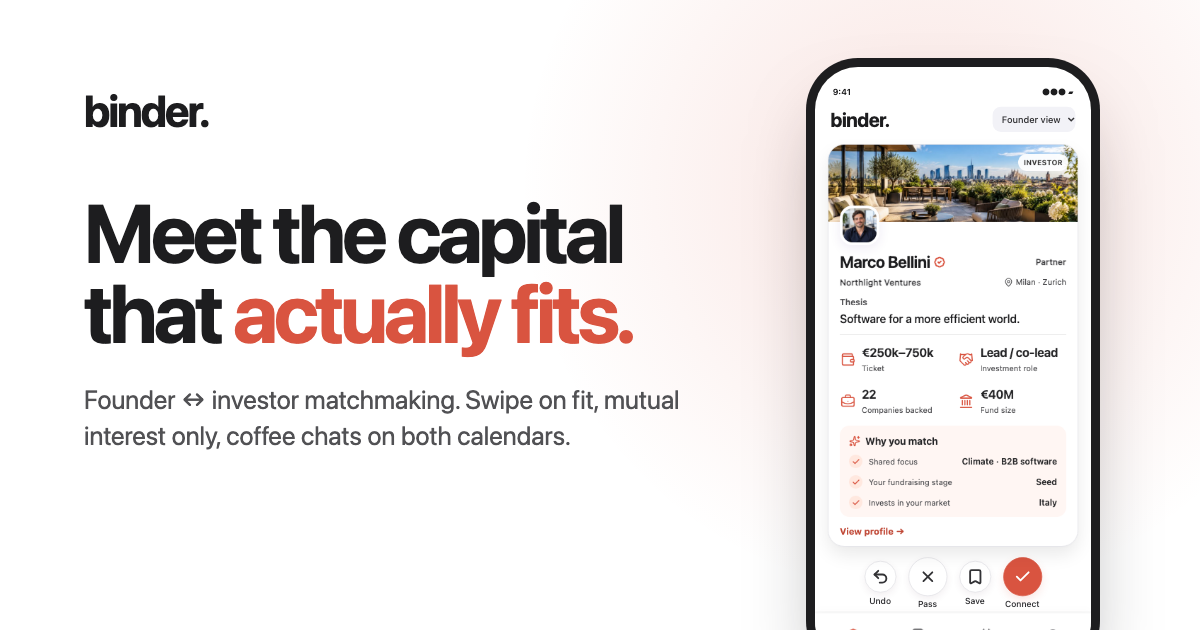
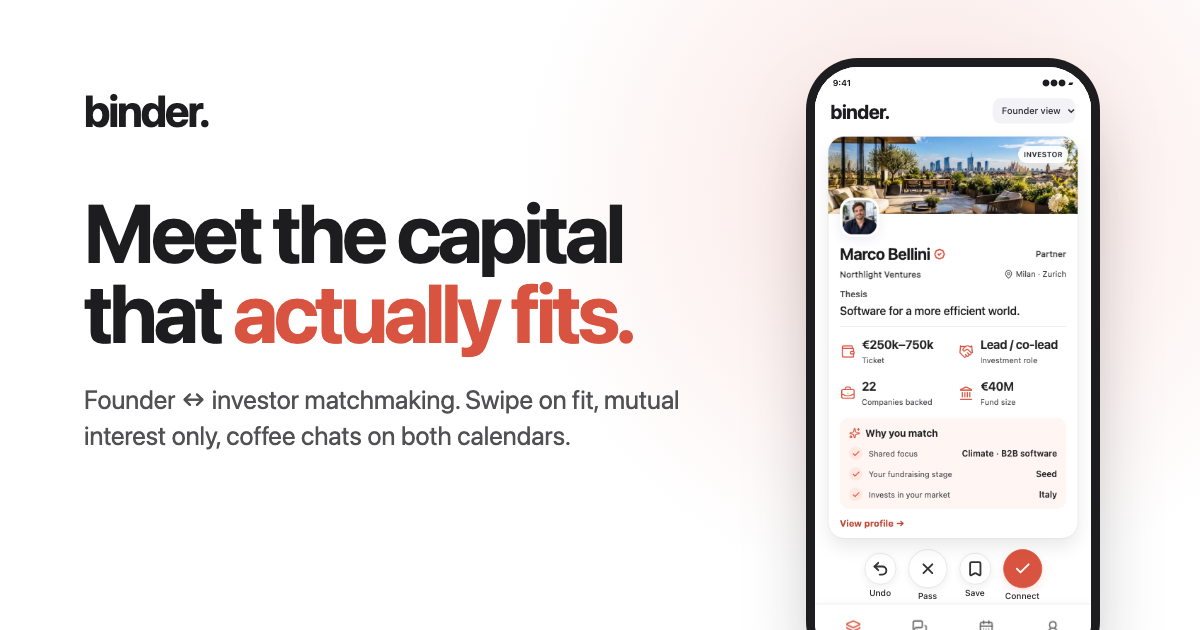
Fix the demo on Vercel: absolute /demo/ paths; absolute og:image
On Vercel, vercel.json's cleanUrls + trailingSlash:false redirect /demo/ to
/demo and serve demo/index.html there. The demo loaded embed.css, boot.js
and icons.js by relative path, which at /demo resolve to /embed.css and so
on — all 404. Every phone on the site would have rendered unstyled, without
icons, and with nothing for the page to drive. Production was confirmed to
redirect /demo/ → /demo before this reached it (main still serves v1).

The local smoke server served /demo/ directly, so the test could not see it.
It now emulates Vercel's routing from vercel.json (and refuses to run if
those settings change without the emulation), and asserts boot.js, icons.js
and embed.css actually took effect. Against the previous demo/index.html it
fails on all three; with absolute paths it passes.

The page links to /demo rather than /demo/ to skip the redirect hop, and the
social card renderer serves over HTTP since file:// cannot resolve /demo/.

og:image was relative; link-preview crawlers ignore those, so a shared link
would have shown no card. It is now https://binder.red/assets/og-image.png
with og:url and a canonical link, and check-site enforces it.

Claude-Session: https://claude.ai/code/session_01WsGjifAW8vz5dC8W74jycM

diff --git a/demo/index.html b/demo/index.html
@@ -1,4 +1,4 @@
-<!doctype html><html lang="en"><meta charset="UTF-8"><meta name="viewport" content="width=device-width,initial-scale=1"><title>Binder — interactive demo</title><meta name="robots" content="noindex"><style>body{margin:0;background:#fff}button,input,select,textarea{font:inherit}</style><link rel="stylesheet" href="embed.css"><script>window.BINDER_STATE_VERSION=16</script><script src="boot.js"></script><script src="icons.js"></script><div id="binder-color" class="viz-dotted-background">
+<!doctype html><html lang="en"><meta charset="UTF-8"><meta name="viewport" content="width=device-width,initial-scale=1"><title>Binder — interactive demo</title><meta name="robots" content="noindex"><style>body{margin:0;background:#fff}button,input,select,textarea{font:inherit}</style><link rel="stylesheet" href="/demo/embed.css"><script>window.BINDER_STATE_VERSION=16</script><script src="/demo/boot.js"></script><script src="/demo/icons.js"></script><div id="binder-color" class="viz-dotted-background">
 <style>
 #binder-color{padding:24px 8px;font-family:-apple-system,BlinkMacSystemFont,"Helvetica Neue",sans-serif;color:#232b3b}#binder-color *{box-sizing:border-box}#binder-color button,#binder-color select,#binder-color input{font:inherit}#binder-color button{cursor:inherit}#binder-color .phone{max-width:390px;margin:auto;background:#fff8f2;border:1px solid #e3e5eb;border-radius:36px;overflow:hidden;box-shadow:0 20px 65px #22334a15}#binder-color .status{display:flex;justify-content:space-between;padding:18px 25px 8px;font-size:12px;font-weight:600}#binder-color header{display:flex;justify-content:space-between;align-items:center;padding:15px 23px 12px}#binder-color .brand{font-size:26px;letter-spacing:-1.2px;font-weight:700;color:#252e44}#binder-color select{border:0;background:#e9edf7;color:#4c6085;padding:9px;border-radius:18px;font-size:12px}#binder-color main{padding:8px 20px 18px;min-height:620px}#binder-color h1{font-size:31px;letter-spacing:-1px;margin:0 0 5px;font-weight:650}#binder-color h2{font-size:25px;letter-spacing:-.7px;margin:12px 0 5px;font-weight:650}#binder-color p{font-size:13px;line-height:1.5;margin:0 0 14px}#binder-color .muted{color:#6b7485}#binder-color .person-card{position:relative;background:#fff;border-radius:25px;margin-top:18px;box-shadow:0 8px 25px #2c426110;isolation:isolate}#binder-color .swipe{touch-action:pan-y;user-select:none;will-change:transform}#binder-color .cover{position:relative;height:148px;background:linear-gradient(125deg,#8aa6db,#526bb0 60%,#344c8c);border-radius:25px 25px 0 0;overflow:hidden}#binder-color .cover.founder{background:linear-gradient(125deg,#ffc5a4,#f2998d 65%,#dd777e)}#binder-color .cover:before,#binder-color .cover:after{content:"";position:absolute;width:210px;height:210px;border-radius:50%;background:#ffffff13;right:-45px;top:-70px}#binder-color .cover:after{left:-55px;top:85px;background:#ffffff0b}#binder-color .label{position:absolute;top:17px;right:16px;background:#ffffff22;color:white;padding:7px 10px;border-radius:20px;font-size:11px}#binder-color .body{padding:0 20px 20px}#binder-color .identity{display:flex;align-items:flex-end;justify-content:space-between;gap:8px;position:relative;margin-top:-33px}#binder-color .avatar{display:grid;place-items:center;width:70px;height:70px;border:4px solid white;background:#6683c5;color:white;border-radius:22px;font-size:24px;font-weight:500}#binder-color .avatar.founder{background:#ee856f}#binder-color .verified{font-size:10px;background:#edf7f2;color:#3b7561;padding:6px 8px;border-radius:15px;margin-bottom:4px}#binder-color .eyebrow{font-size:10px;letter-spacing:1.1px;color:#7a8496;margin:20px 0 10px;font-weight:600}#binder-color .chips{display:flex;gap:7px;flex-wrap:wrap}#binder-color .chip{padding:8px 10px;font-size:11px;border-radius:12px;background:#eaf5ee;color:#38624b}#binder-color .chip.stage{background:#edeafb;color:#63539b}#binder-color .chip.ticket{background:#fff1da;color:#886024}#binder-color .chip.geo{background:#e8f0fc;color:#45658a}#binder-color .metrics{display:grid;grid-template-columns:repeat(3,minmax(0,1fr));gap:7px;margin:17px 0 0}#binder-color .metrics>div{background:#f5f7fb;padding:12px 7px;border-radius:13px}#binder-color .metrics strong{font-size:16px;font-weight:650;display:block}#binder-color .metrics small{display:block;font-size:10px;color:#707b8d;margin-top:4px}#binder-color .link{border:0;background:none;color:#563c50;padding:15px 0 0;font-size:12px}#binder-color .controls{display:flex;align-items:center;justify-content:center;gap:14px;margin:22px 0 12px}#binder-color .control-wrap{text-align:center;font-size:10px;color:#7d8595}#binder-color .round{display:grid;place-items:center;border:0;background:#fff;width:54px;height:54px;border-radius:50%;box-shadow:0 5px 13px #24354c0a;margin-bottom:6px;color:#7d8595}#binder-color .round.pass{color:#b85f69;background:#fceef0;width:62px;height:62px}#binder-color .round.save{color:#9b712e;background:#fff2dc}#binder-color .round.like{background:#ddf2e8;color:#34795d;width:62px;height:62px}#binder-color .hint{text-align:center;font-size:10px;line-height:1.5;color:#7b8495;margin:0}#binder-color nav{display:grid;grid-template-columns:repeat(4,minmax(0,1fr));padding:13px 8px 21px;background:#fff;border-top:1px solid #eaeef5}#binder-color nav button{display:flex;align-items:center;flex-direction:column;gap:6px;border:0;background:none;color:#8a92a1;padding:6px 0;font-size:10px}#binder-color nav button.active{color:#506fb1}#binder-color .primary{display:block;background:#563c50;color:#fff;padding:16px;border:0;width:100%;border-radius:17px;font-size:14px;font-weight:500;margin-top:20px}#binder-color .secondary{display:block;background:#fff;color:#53698f;padding:15px;border:1px solid #e5eaf2;width:100%;border-radius:17px;font-size:13px;margin-top:10px}#binder-color .back{border:0;background:none;color:#5c7299;padding:7px 0;margin-bottom:15px;font-size:12px}#binder-color .pair{display:flex;justify-content:center;align-items:center;padding:38px 0 30px}#binder-color .pair span{display:grid;place-items:center;width:90px;height:90px;background:#775569;color:white;font-size:27px;border:5px solid #fff8f2;border-radius:50%}#binder-color .pair span+span{background:#ee856f;margin-left:-12px}#binder-color .notice{padding:17px;border-radius:17px;background:#eaf5ef;color:#407059;font-size:13px;line-height:1.5;margin:20px 0}#binder-color .slot{padding:17px;background:#fff;border:1px solid #e4e9f2;border-radius:16px;margin-top:10px;width:100%;color:#4a5670;text-align:left}#binder-color .slot[aria-pressed=true]{background:#eaf0fc;color:#3f5e9b;border-color:#829bd0}#binder-color .settings{margin-top:18px;background:#fff;border-radius:20px;padding:0 17px}#binder-color .setting{border-bottom:1px solid #edf0f5;padding:16px 0;font-size:13px;display:flex;justify-content:space-between;gap:10px}#binder-color .setting:last-child{border:0}#binder-color label{display:block;margin:14px 0 5px;font-size:12px}#binder-color input,#binder-color textarea{width:100%;padding:14px;border:1px solid #dce3ef;border-radius:12px;background:#fff;color:#303e57;font:inherit;font-size:16px}#binder-color .swipe-label{position:absolute;top:72px;left:20px;border:2px solid currentColor;border-radius:9px;font-weight:700;font-size:22px;padding:8px 12px;z-index:4;background:#fff;opacity:0;color:#34795d;pointer-events:none}#binder-color .stamp-pass{color:#b85f69}#binder-color .profile-intro{padding-top:10px}#binder-color .mini-label{font-size:11px;color:#738098;margin:10px 0}#binder-color .steps{display:flex;justify-content:center;gap:16px;font-size:11px;color:#7a8496;margin-bottom:18px}#binder-color .steps span{display:flex;align-items:center;gap:5px}#binder-color .dot{width:7px;height:7px;border-radius:50%;background:#775569}#binder-color .dot.coral{background:#ee856f}@media(max-width:360px){#binder-color{padding:16px 0}#binder-color main{padding-left:15px;padding-right:15px}#binder-color .controls{gap:10px}}
 #binder-color{--binder-ink:#30262e;--binder-indigo:#563c50;--binder-coral:#ee856f;--binder-green:#147853;color:var(--binder-ink)}

diff --git a/index.html b/index.html
@@ -12,7 +12,12 @@
 <meta property="og:type" content="website">
 <meta property="og:title" content="binder. — Meet the capital that actually fits">
 <meta property="og:description" content="Founder ↔ investor matchmaking. Swipe on fit, mutual interest only, 20-minute coffee chats booked on both calendars.">
-<meta property="og:image" content="/assets/og-image.png">
+<!-- Absolute: link previews (LinkedIn, X, Slack) ignore relative og:image URLs. -->
+<link rel="canonical" href="https://binder.red/">
+<meta property="og:url" content="https://binder.red/">
+<meta property="og:image" content="https://binder.red/assets/og-image.png">
+<meta property="og:image:width" content="1200">
+<meta property="og:image:height" content="630">
 <meta name="twitter:card" content="summary_large_image">
 <link rel="preconnect" href="https://fonts.googleapis.com">
 <link rel="preconnect" href="https://fonts.gstatic.com" crossorigin>
@@ -346,8 +351,8 @@ footer a:hover{color:var(--ink)}
     <div class="hero-stage">
       <div class="device">
         <div class="viewport">
-          <iframe id="heroFrame" src="/demo/?embed&amp;role=founder" title="Binder interactive demo: swipe on investor profiles" loading="eager"></iframe>
-          <a class="btn btn-coral btn-sm tap-demo" href="/demo/?role=founder"><svg class="ic"><use href="#i-expand"/></svg>Open the live demo</a>
+          <iframe id="heroFrame" src="/demo?embed&amp;role=founder" title="Binder interactive demo: swipe on investor profiles" loading="eager"></iframe>
+          <a class="btn btn-coral btn-sm tap-demo" href="/demo?role=founder"><svg class="ic"><use href="#i-expand"/></svg>Open the live demo</a>
         </div>
       </div>
       <p class="hint desk"><svg class="ic"><use href="#i-pointer"/></svg>Live demo — drag the card or tap Connect.</p>
@@ -437,7 +442,7 @@ footer a:hover{color:var(--ink)}
       <div class="stick">
         <div class="device">
           <div class="viewport">
-            <iframe class="how-frame" id="founderFrame" src="/demo/?embed&amp;lock&amp;role=founder&amp;page=financials" title="Binder founder app, showing the current step" loading="lazy"></iframe>
+            <iframe class="how-frame" id="founderFrame" src="/demo?embed&amp;lock&amp;role=founder&amp;page=financials" title="Binder founder app, showing the current step" loading="lazy"></iframe>
           </div>
         </div>
         <div class="dots" role="tablist" aria-label="Founder steps">
@@ -512,7 +517,7 @@ footer a:hover{color:var(--ink)}
       <div class="stick">
         <div class="device">
           <div class="viewport">
-            <iframe class="how-frame" id="investorFrame" src="/demo/?embed&amp;lock&amp;role=vc&amp;page=financials" title="Binder investor app, showing the current step" loading="lazy"></iframe>
+            <iframe class="how-frame" id="investorFrame" src="/demo?embed&amp;lock&amp;role=vc&amp;page=financials" title="Binder investor app, showing the current step" loading="lazy"></iframe>
           </div>
         </div>
         <div class="dots" role="tablist" aria-label="Investor steps">
@@ -586,7 +591,7 @@ footer a:hover{color:var(--ink)}
       <div class="direct">
         <a id="bookDirect" href="#" target="_blank" rel="noopener" hidden><span class="ico"><svg class="ic"><use href="#i-cal"/></svg></span><span>Pick a time now<small>Opens our calendar in a new tab</small></span><svg class="ic go"><use href="#i-arrow"/></svg></a>
         <a id="mailDirect" href="#" hidden><span class="ico"><svg class="ic"><use href="#i-mail"/></svg></span><span id="mailLabel">Email us<small>We reply within one working day</small></span><svg class="ic go"><use href="#i-arrow"/></svg></a>
-        <a href="/demo/" target="_blank" rel="noopener"><span class="ico"><svg class="ic"><use href="#i-expand"/></svg></span><span>Try the prototype full screen<small>Best on a phone</small></span><svg class="ic go"><use href="#i-arrow"/></svg></a>
+        <a href="/demo" target="_blank" rel="noopener"><span class="ico"><svg class="ic"><use href="#i-expand"/></svg></span><span>Try the prototype full screen<small>Best on a phone</small></span><svg class="ic go"><use href="#i-arrow"/></svg></a>
       </div>
     </div>
 
@@ -639,7 +644,7 @@ footer a:hover{color:var(--ink)}
     </div>
     <div class="faq">
       <details><summary>Is Binder live?<svg class="ic"><use href="#i-plus"/></svg></summary><p>We're running a pilot with a founding cohort of founders and investors. The pilot follows the same flow you see above — stated intent, fit, mutual interest, a booked call — with our team reviewing every match. Book a demo to see where the product is today.</p></details>
-      <details><summary>Can I try it?<svg class="ic"><use href="#i-plus"/></svg></summary><p>Yes — the phones on this page run the actual prototype. Swipe, connect, book a slot, edit a profile. Nothing you do there is sent anywhere. <a href="/demo/">Open it full screen</a>; it works best on a phone.</p></details>
+      <details><summary>Can I try it?<svg class="ic"><use href="#i-plus"/></svg></summary><p>Yes — the phones on this page run the actual prototype. Swipe, connect, book a slot, edit a profile. Nothing you do there is sent anywhere. <a href="/demo">Open it full screen</a>; it works best on a phone.</p></details>
       <details><summary>Who can see my profile?<svg class="ic"><use href="#i-plus"/></svg></summary><p>Only people on the other side whose criteria you fit, and you choose the visibility: relevant matches, connections only, or paused. Founders appear only to investors whose ticket, stage and thesis include them.</p></details>
       <details><summary>Does anyone find out if I pass?<svg class="ic"><use href="#i-plus"/></svg></summary><p>No. A pass is private. The other side only ever hears about a mutual yes.</p></details>
       <details><summary>How is this different from an investor database?<svg class="ic"><use href="#i-plus"/></svg></summary><p>A database gives you names and leaves the outreach to you. Binder only surfaces people who fit, only connects you when both sides say yes, and turns that yes straight into a meeting on both calendars.</p></details>
@@ -666,7 +671,7 @@ footer a:hover{color:var(--ink)}
 <footer>
   <div class="wrap">
     <a class="brand wordmark" href="#top" style="font-size:22px">binder.</a>
-    <nav aria-label="Footer"><a href="#founders">For founders</a><a href="#investors">For investors</a><a href="/demo/">Live demo</a><a href="#pilot">Pilot</a><a href="#faq">FAQ</a><a href="#contact">Contact</a></nav>
+    <nav aria-label="Footer"><a href="#founders">For founders</a><a href="#investors">For investors</a><a href="/demo">Live demo</a><a href="#pilot">Pilot</a><a href="#faq">FAQ</a><a href="#contact">Contact</a></nav>
     <span>© 2026 Binder</span>
   </div>
 </footer>

diff --git a/build/og.html b/build/og.html
@@ -21,5 +21,5 @@ iframe{position:absolute;left:0;top:0;width:390px;height:844px;border:0;transfor
   <h1>Meet the capital that <span>actually fits.</span></h1>
   <p>Founder ↔ investor matchmaking. Swipe on fit, mutual interest only, coffee chats on both calendars.</p>
 </div>
-<div class="ph"><div class="vp"><iframe src="../demo/index.html?embed&role=founder"></iframe></div></div>
+<div class="ph"><div class="vp"><iframe src="/demo/index.html?embed&role=founder"></iframe></div></div>
 </body></html>
